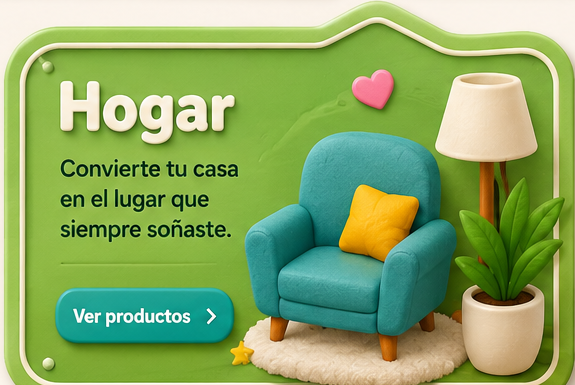
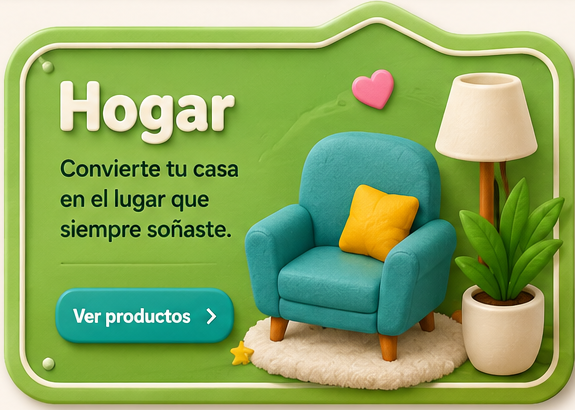
prueba Categorias

diff --git a/lib/catalog.ts b/lib/catalog.ts
@@ -127,12 +127,12 @@ export const categoryCardDesign: Record<
   hogar: {
     image: "/category-hogar.png",
     width: 575,
-    height: 385,
+    height: 410,
   },
   jugueteria: {
     image: "/category-jugueteria.png",
     width: 665,
-    height: 390,
+    height: 420,
   },
 };
 
